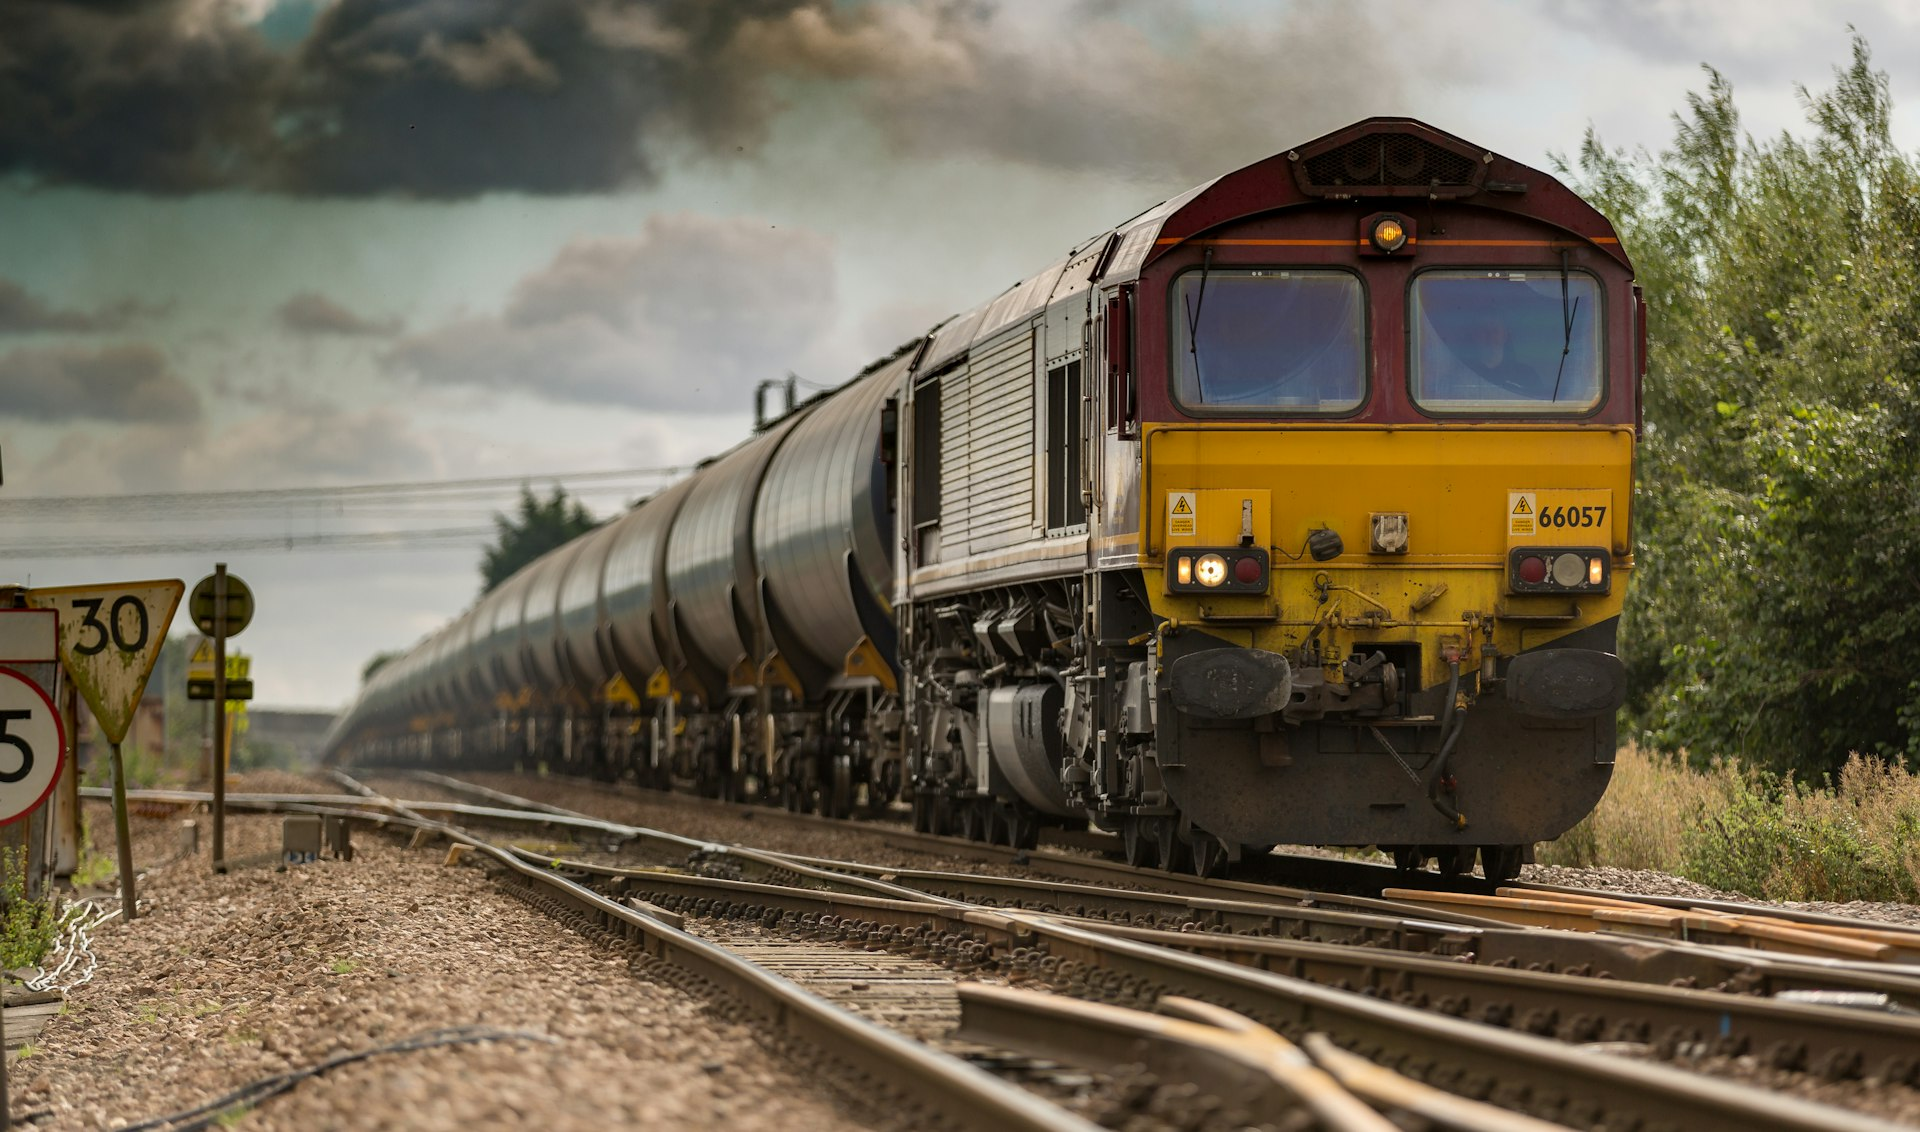
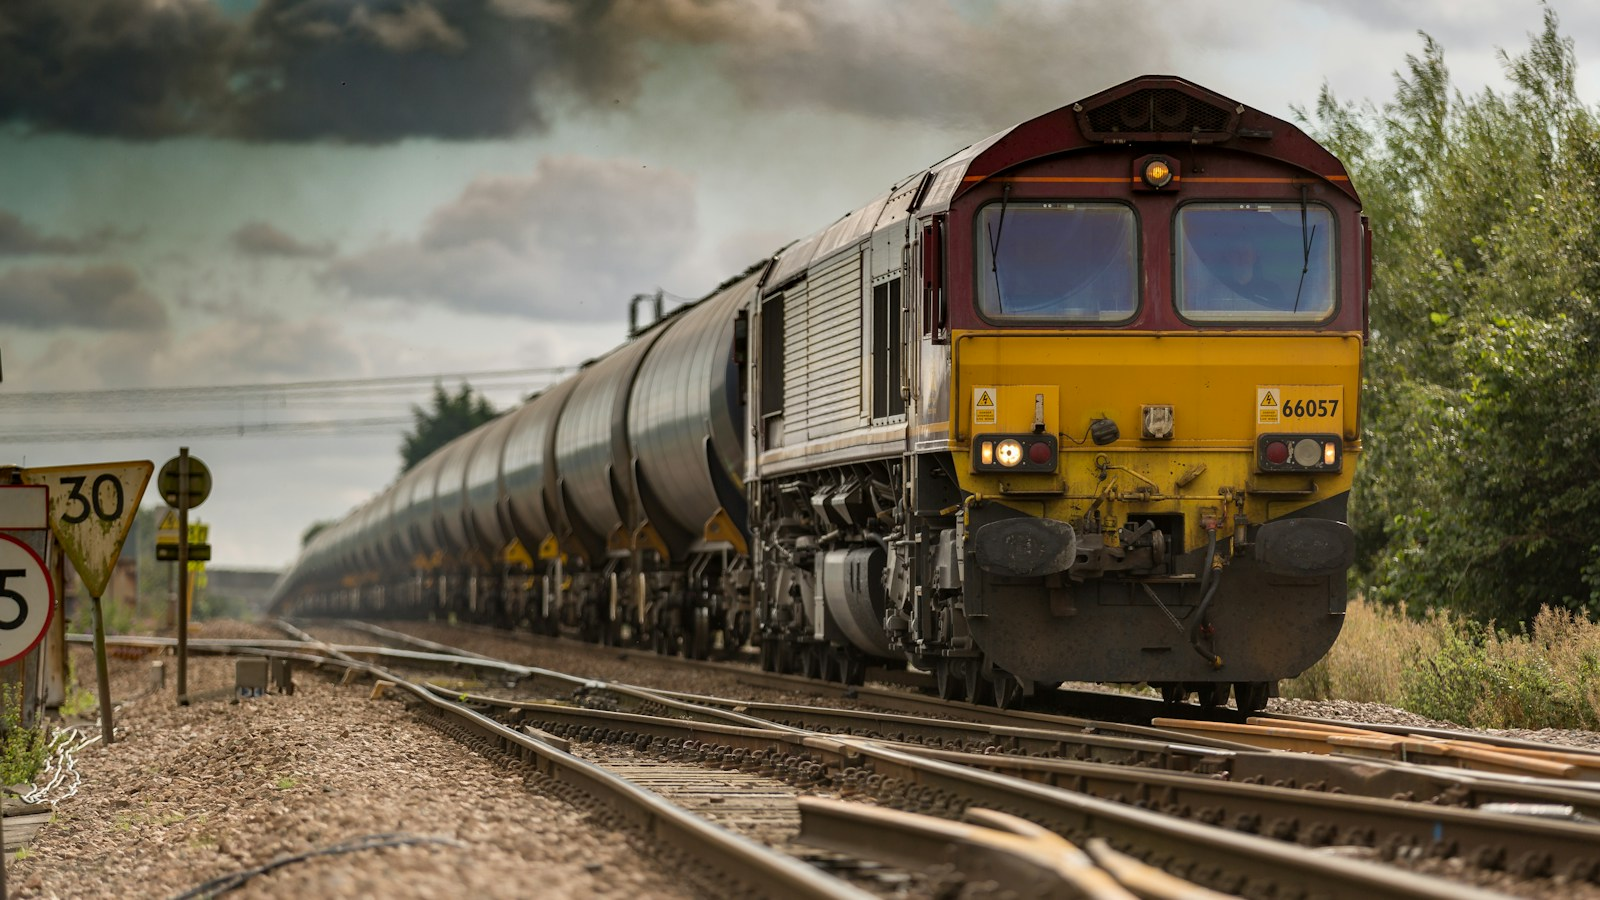
Ensure all 4 original photos are downloaded, optimized, and rendered with img tags and clear contrast

diff --git a/resources/views/home.blade.php b/resources/views/home.blade.php
@@ -64,10 +64,10 @@
                  x-transition:leave="transition ease-in duration-500"
                  x-transition:leave-start="opacity-100 scale-100"
                  x-transition:leave-end="opacity-0 scale-100"
-                 class="absolute inset-0 w-full h-full bg-cover bg-center"
-                 style="background-image: url('{{ $slideItem['image'] }}');">
-                <!-- Balanced scrim overlay: text remains readable while background photos pop clearly -->
-                <div class="absolute inset-0 bg-gradient-to-t from-[#121212] via-black/40 to-black/20 sm:bg-gradient-to-r sm:from-black/75 sm:via-black/40 sm:to-black/10"></div>
+                 class="absolute inset-0 w-full h-full overflow-hidden">
+                <img src="{{ $slideItem['image'] }}" alt="{{ $slideItem['title'] }}" class="w-full h-full object-cover object-center" loading="eager" decoding="sync">
+                <!-- Light soft scrim overlay so images remain vivid while text is perfectly legible -->
+                <div class="absolute inset-0 bg-gradient-to-t from-[#121212]/90 via-black/30 to-transparent sm:bg-gradient-to-r sm:from-black/75 sm:via-black/35 sm:to-transparent"></div>
             </div>
         @endforeach
 
